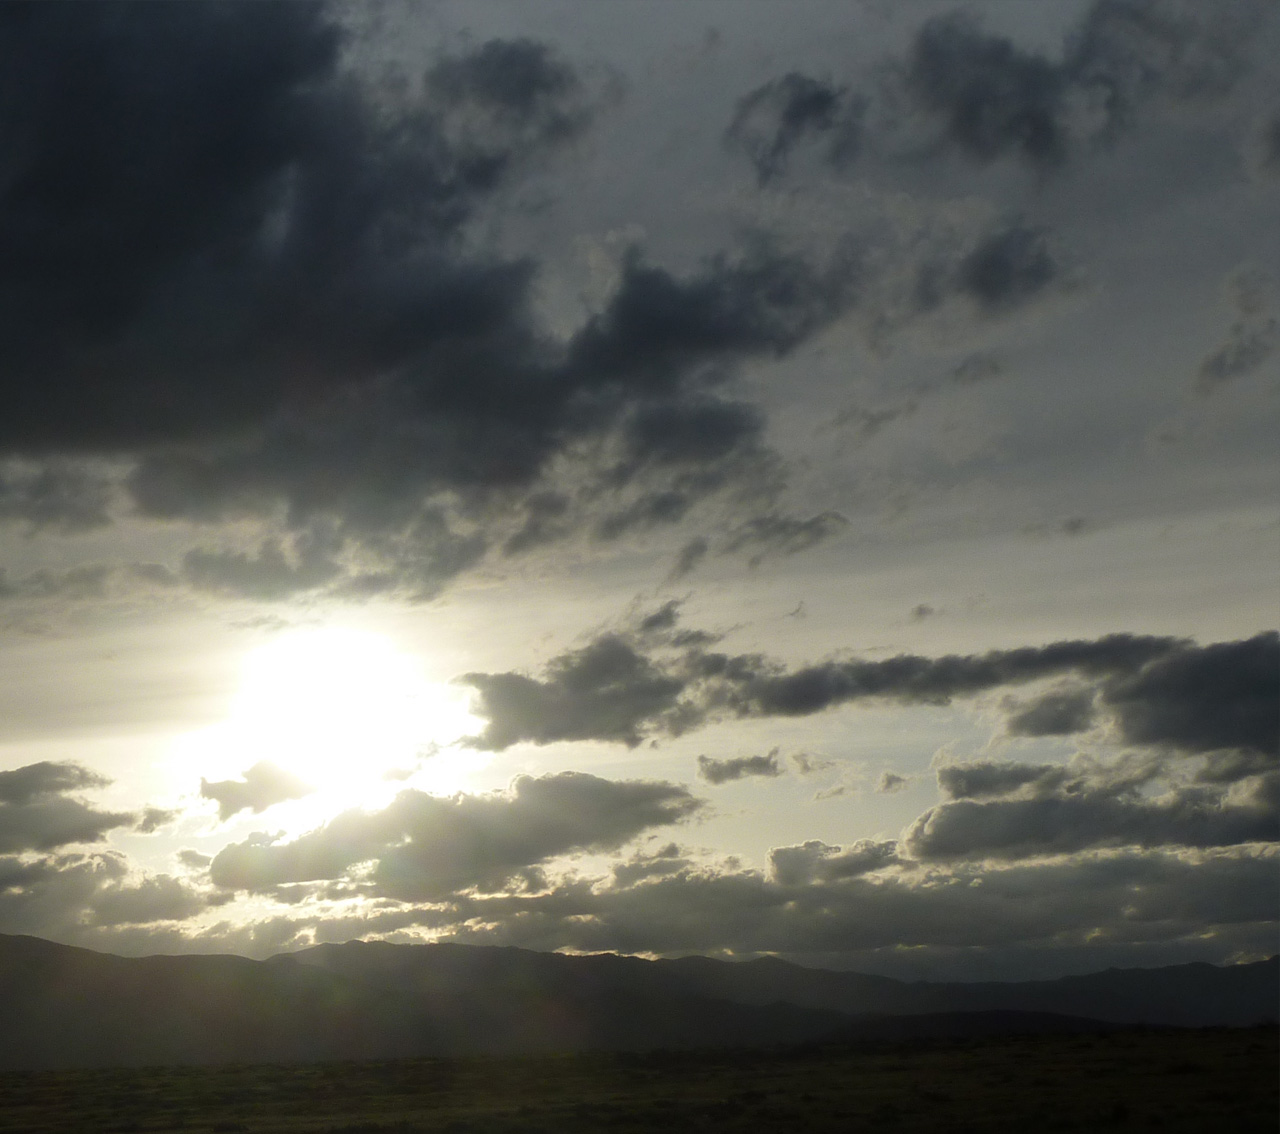
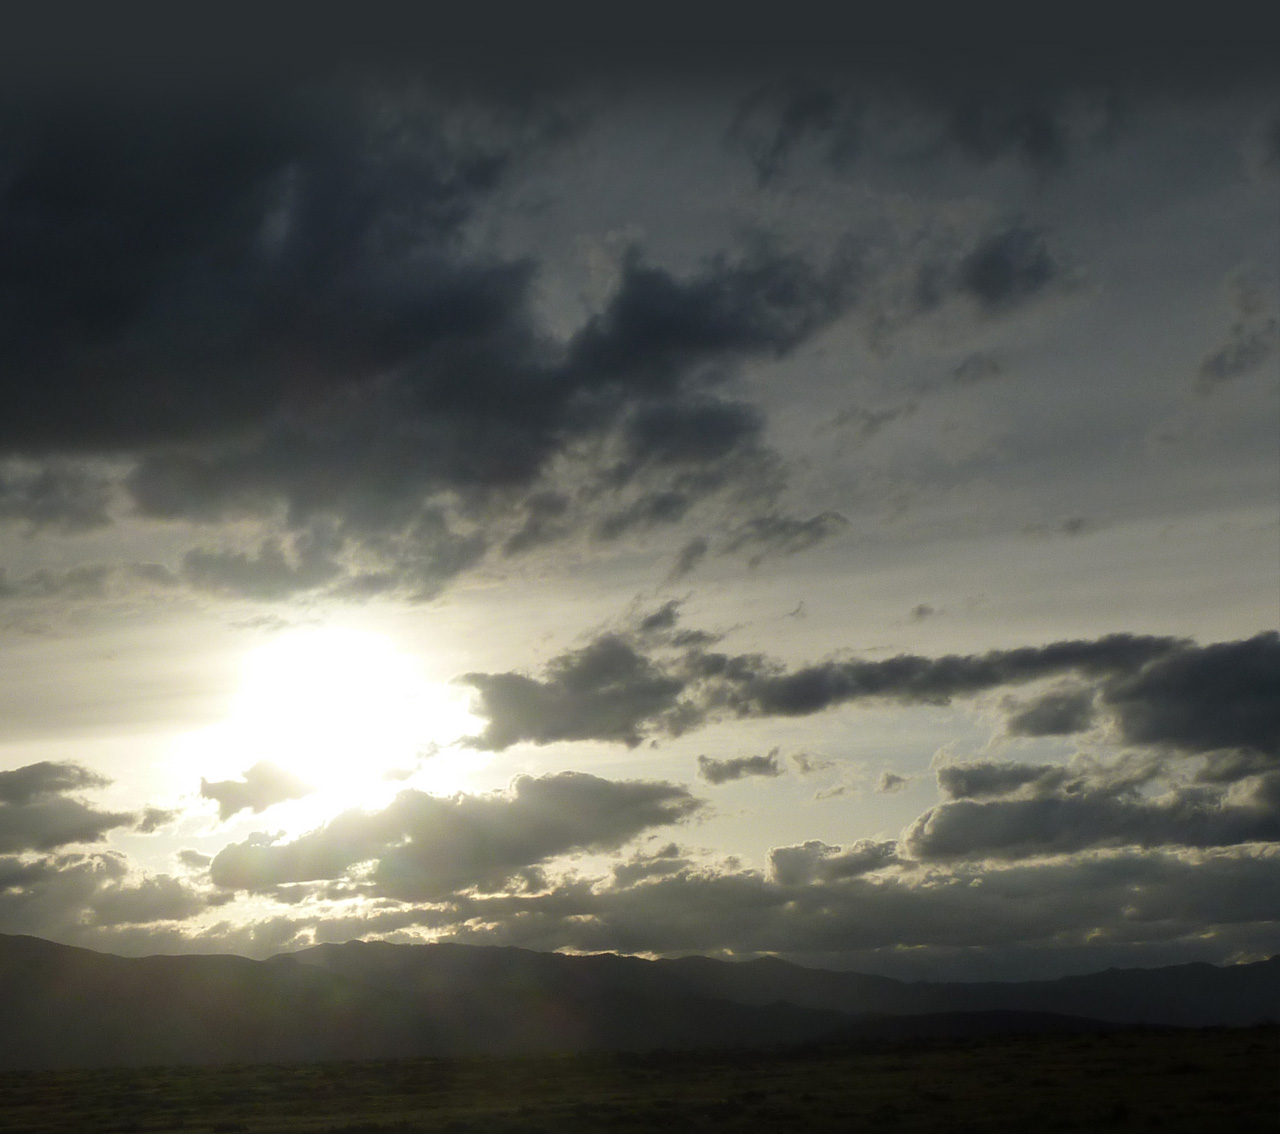
background position for touch devises

Changed region(s): [[0.25, 0.0, 1.0, 0.1235]]

diff --git a/app/assets/javascripts/modernizr.custom.65533.js b/app/assets/javascripts/modernizr.custom.65533.js
@@ -1,0 +1,4 @@
+/* Modernizr 2.7.1 (Custom Build) | MIT & BSD
+ * Build: http://modernizr.com/download/#-touch-shiv-cssclasses-teststyles-prefixes-load
+ */
+;window.Modernizr=function(a,b,c){function w(a){j.cssText=a}function x(a,b){return w(m.join(a+";")+(b||""))}function y(a,b){return typeof a===b}function z(a,b){return!!~(""+a).indexOf(b)}function A(a,b,d){for(var e in a){var f=b[a[e]];if(f!==c)return d===!1?a[e]:y(f,"function")?f.bind(d||b):f}return!1}var d="2.7.1",e={},f=!0,g=b.documentElement,h="modernizr",i=b.createElement(h),j=i.style,k,l={}.toString,m=" -webkit- -moz- -o- -ms- ".split(" "),n={},o={},p={},q=[],r=q.slice,s,t=function(a,c,d,e){var f,i,j,k,l=b.createElement("div"),m=b.body,n=m||b.createElement("body");if(parseInt(d,10))while(d--)j=b.createElement("div"),j.id=e?e[d]:h+(d+1),l.appendChild(j);return f=["&#173;",'<style id="s',h,'">',a,"</style>"].join(""),l.id=h,(m?l:n).innerHTML+=f,n.appendChild(l),m||(n.style.background="",n.style.overflow="hidden",k=g.style.overflow,g.style.overflow="hidden",g.appendChild(n)),i=c(l,a),m?l.parentNode.removeChild(l):(n.parentNode.removeChild(n),g.style.overflow=k),!!i},u={}.hasOwnProperty,v;!y(u,"undefined")&&!y(u.call,"undefined")?v=function(a,b){return u.call(a,b)}:v=function(a,b){return b in a&&y(a.constructor.prototype[b],"undefined")},Function.prototype.bind||(Function.prototype.bind=function(b){var c=this;if(typeof c!="function")throw new TypeError;var d=r.call(arguments,1),e=function(){if(this instanceof e){var a=function(){};a.prototype=c.prototype;var f=new a,g=c.apply(f,d.concat(r.call(arguments)));return Object(g)===g?g:f}return c.apply(b,d.concat(r.call(arguments)))};return e}),n.touch=function(){var c;return"ontouchstart"in a||a.DocumentTouch&&b instanceof DocumentTouch?c=!0:t(["@media (",m.join("touch-enabled),("),h,")","{#modernizr{top:9px;position:absolute}}"].join(""),function(a){c=a.offsetTop===9}),c};for(var B in n)v(n,B)&&(s=B.toLowerCase(),e[s]=n[B](),q.push((e[s]?"":"no-")+s));return e.addTest=function(a,b){if(typeof a=="object")for(var d in a)v(a,d)&&e.addTest(d,a[d]);else{a=a.toLowerCase();if(e[a]!==c)return e;b=typeof b=="function"?b():b,typeof f!="undefined"&&f&&(g.className+=" "+(b?"":"no-")+a),e[a]=b}return e},w(""),i=k=null,function(a,b){function l(a,b){var c=a.createElement("p"),d=a.getElementsByTagName("head")[0]||a.documentElement;return c.innerHTML="x<style>"+b+"</style>",d.insertBefore(c.lastChild,d.firstChild)}function m(){var a=s.elements;return typeof a=="string"?a.split(" "):a}function n(a){var b=j[a[h]];return b||(b={},i++,a[h]=i,j[i]=b),b}function o(a,c,d){c||(c=b);if(k)return c.createElement(a);d||(d=n(c));var g;return d.cache[a]?g=d.cache[a].cloneNode():f.test(a)?g=(d.cache[a]=d.createElem(a)).cloneNode():g=d.createElem(a),g.canHaveChildren&&!e.test(a)&&!g.tagUrn?d.frag.appendChild(g):g}function p(a,c){a||(a=b);if(k)return a.createDocumentFragment();c=c||n(a);var d=c.frag.cloneNode(),e=0,f=m(),g=f.length;for(;e<g;e++)d.createElement(f[e]);return d}function q(a,b){b.cache||(b.cache={},b.createElem=a.createElement,b.createFrag=a.createDocumentFragment,b.frag=b.createFrag()),a.createElement=function(c){return s.shivMethods?o(c,a,b):b.createElem(c)},a.createDocumentFragment=Function("h,f","return function(){var n=f.cloneNode(),c=n.createElement;h.shivMethods&&("+m().join().replace(/[\w\-]+/g,function(a){return b.createElem(a),b.frag.createElement(a),'c("'+a+'")'})+");return n}")(s,b.frag)}function r(a){a||(a=b);var c=n(a);return s.shivCSS&&!g&&!c.hasCSS&&(c.hasCSS=!!l(a,"article,aside,dialog,figcaption,figure,footer,header,hgroup,main,nav,section{display:block}mark{background:#FF0;color:#000}template{display:none}")),k||q(a,c),a}var c="3.7.0",d=a.html5||{},e=/^<|^(?:button|map|select|textarea|object|iframe|option|optgroup)$/i,f=/^(?:a|b|code|div|fieldset|h1|h2|h3|h4|h5|h6|i|label|li|ol|p|q|span|strong|style|table|tbody|td|th|tr|ul)$/i,g,h="_html5shiv",i=0,j={},k;(function(){try{var a=b.createElement("a");a.innerHTML="<xyz></xyz>",g="hidden"in a,k=a.childNodes.length==1||function(){b.createElement("a");var a=b.createDocumentFragment();return typeof a.cloneNode=="undefined"||typeof a.createDocumentFragment=="undefined"||typeof a.createElement=="undefined"}()}catch(c){g=!0,k=!0}})();var s={elements:d.elements||"abbr article aside audio bdi canvas data datalist details dialog figcaption figure footer header hgroup main mark meter nav output progress section summary template time video",version:c,shivCSS:d.shivCSS!==!1,supportsUnknownElements:k,shivMethods:d.shivMethods!==!1,type:"default",shivDocument:r,createElement:o,createDocumentFragment:p};a.html5=s,r(b)}(this,b),e._version=d,e._prefixes=m,e.testStyles=t,g.className=g.className.replace(/(^|\s)no-js(\s|$)/,"$1$2")+(f?" js "+q.join(" "):""),e}(this,this.document),function(a,b,c){function d(a){return"[object Function]"==o.call(a)}function e(a){return"string"==typeof a}function f(){}function g(a){return!a||"loaded"==a||"complete"==a||"uninitialized"==a}function h(){var a=p.shift();q=1,a?a.t?m(function(){("c"==a.t?B.injectCss:B.injectJs)(a.s,0,a.a,a.x,a.e,1)},0):(a(),h()):q=0}function i(a,c,d,e,f,i,j){function k(b){if(!o&&g(l.readyState)&&(u.r=o=1,!q&&h(),l.onload=l.onreadystatechange=null,b)){"img"!=a&&m(function(){t.removeChild(l)},50);for(var d in y[c])y[c].hasOwnProperty(d)&&y[c][d].onload()}}var j=j||B.errorTimeout,l=b.createElement(a),o=0,r=0,u={t:d,s:c,e:f,a:i,x:j};1===y[c]&&(r=1,y[c]=[]),"object"==a?l.data=c:(l.src=c,l.type=a),l.width=l.height="0",l.onerror=l.onload=l.onreadystatechange=function(){k.call(this,r)},p.splice(e,0,u),"img"!=a&&(r||2===y[c]?(t.insertBefore(l,s?null:n),m(k,j)):y[c].push(l))}function j(a,b,c,d,f){return q=0,b=b||"j",e(a)?i("c"==b?v:u,a,b,this.i++,c,d,f):(p.splice(this.i++,0,a),1==p.length&&h()),this}function k(){var a=B;return a.loader={load:j,i:0},a}var l=b.documentElement,m=a.setTimeout,n=b.getElementsByTagName("script")[0],o={}.toString,p=[],q=0,r="MozAppearance"in l.style,s=r&&!!b.createRange().compareNode,t=s?l:n.parentNode,l=a.opera&&"[object Opera]"==o.call(a.opera),l=!!b.attachEvent&&!l,u=r?"object":l?"script":"img",v=l?"script":u,w=Array.isArray||function(a){return"[object Array]"==o.call(a)},x=[],y={},z={timeout:function(a,b){return b.length&&(a.timeout=b[0]),a}},A,B;B=function(a){function b(a){var a=a.split("!"),b=x.length,c=a.pop(),d=a.length,c={url:c,origUrl:c,prefixes:a},e,f,g;for(f=0;f<d;f++)g=a[f].split("="),(e=z[g.shift()])&&(c=e(c,g));for(f=0;f<b;f++)c=x[f](c);return c}function g(a,e,f,g,h){var i=b(a),j=i.autoCallback;i.url.split(".").pop().split("?").shift(),i.bypass||(e&&(e=d(e)?e:e[a]||e[g]||e[a.split("/").pop().split("?")[0]]),i.instead?i.instead(a,e,f,g,h):(y[i.url]?i.noexec=!0:y[i.url]=1,f.load(i.url,i.forceCSS||!i.forceJS&&"css"==i.url.split(".").pop().split("?").shift()?"c":c,i.noexec,i.attrs,i.timeout),(d(e)||d(j))&&f.load(function(){k(),e&&e(i.origUrl,h,g),j&&j(i.origUrl,h,g),y[i.url]=2})))}function h(a,b){function c(a,c){if(a){if(e(a))c||(j=function(){var a=[].slice.call(arguments);k.apply(this,a),l()}),g(a,j,b,0,h);else if(Object(a)===a)for(n in m=function(){var b=0,c;for(c in a)a.hasOwnProperty(c)&&b++;return b}(),a)a.hasOwnProperty(n)&&(!c&&!--m&&(d(j)?j=function(){var a=[].slice.call(arguments);k.apply(this,a),l()}:j[n]=function(a){return function(){var b=[].slice.call(arguments);a&&a.apply(this,b),l()}}(k[n])),g(a[n],j,b,n,h))}else!c&&l()}var h=!!a.test,i=a.load||a.both,j=a.callback||f,k=j,l=a.complete||f,m,n;c(h?a.yep:a.nope,!!i),i&&c(i)}var i,j,l=this.yepnope.loader;if(e(a))g(a,0,l,0);else if(w(a))for(i=0;i<a.length;i++)j=a[i],e(j)?g(j,0,l,0):w(j)?B(j):Object(j)===j&&h(j,l);else Object(a)===a&&h(a,l)},B.addPrefix=function(a,b){z[a]=b},B.addFilter=function(a){x.push(a)},B.errorTimeout=1e4,null==b.readyState&&b.addEventListener&&(b.readyState="loading",b.addEventListener("DOMContentLoaded",A=function(){b.removeEventListener("DOMContentLoaded",A,0),b.readyState="complete"},0)),a.yepnope=k(),a.yepnope.executeStack=h,a.yepnope.injectJs=function(a,c,d,e,i,j){var k=b.createElement("script"),l,o,e=e||B.errorTimeout;k.src=a;for(o in d)k.setAttribute(o,d[o]);c=j?h:c||f,k.onreadystatechange=k.onload=function(){!l&&g(k.readyState)&&(l=1,c(),k.onload=k.onreadystatechange=null)},m(function(){l||(l=1,c(1))},e),i?k.onload():n.parentNode.insertBefore(k,n)},a.yepnope.injectCss=function(a,c,d,e,g,i){var e=b.createElement("link"),j,c=i?h:c||f;e.href=a,e.rel="stylesheet",e.type="text/css";for(j in d)e.setAttribute(j,d[j]);g||(n.parentNode.insertBefore(e,n),m(c,0))}}(this,document),Modernizr.load=function(){yepnope.apply(window,[].slice.call(arguments,0))};

diff --git a/app/assets/stylesheets/main.css.scss b/app/assets/stylesheets/main.css.scss
@@ -3,7 +3,8 @@ body{
   background: none;
 }
 .background { 
-  background: url(asset-path("bkgd-short.jpg")) 0 0 no-repeat;
+  background: url(asset-path("bkgd-short.jpg")) 0 bottom no-repeat;
+  background-color: #292f31;
 }
 .container-main{
   padding-top: 72px;
@@ -13,6 +14,7 @@ body{
 @media (min-width: $screen-sm-min) {
 
   .navbar-nav{
+    position: relative;
     > li > a{
       padding-top: 42.5px;
       padding-bottom: 42.5px;
@@ -40,7 +42,7 @@ body{
 
 .footer{
   @include make-sm-column(12);
-  height: 250px;
+  height: 150px;
   position: relative;
 
   p{
